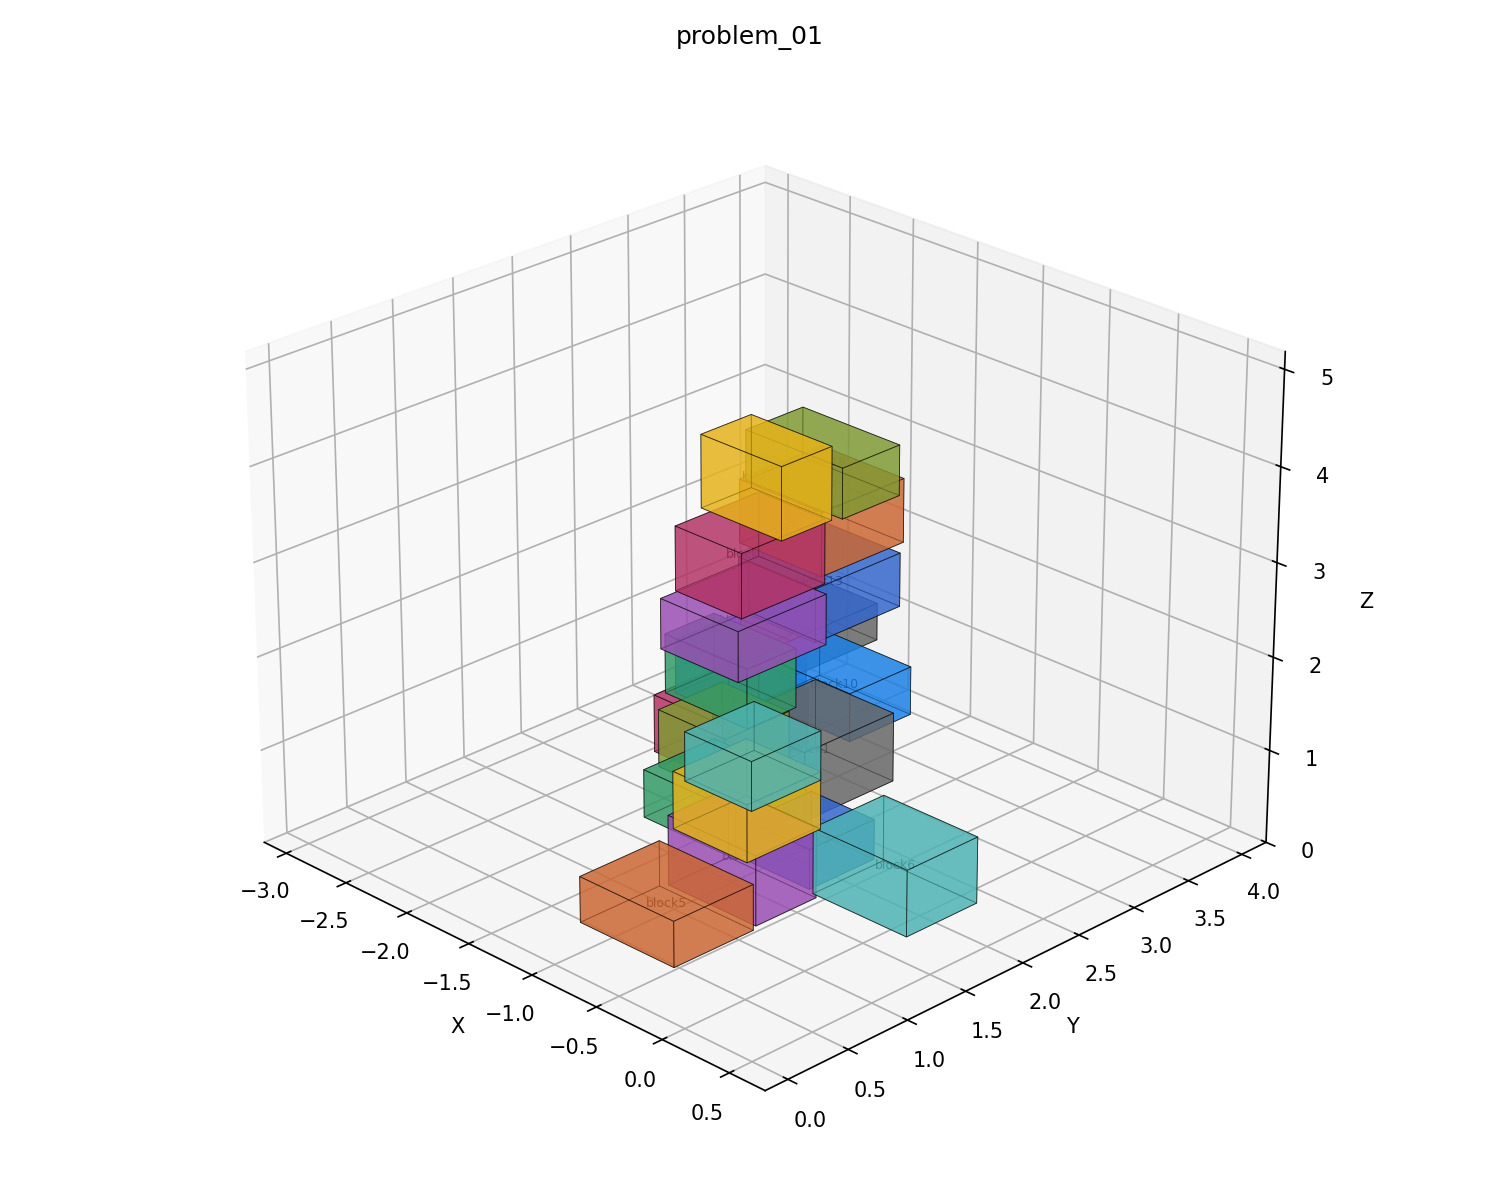
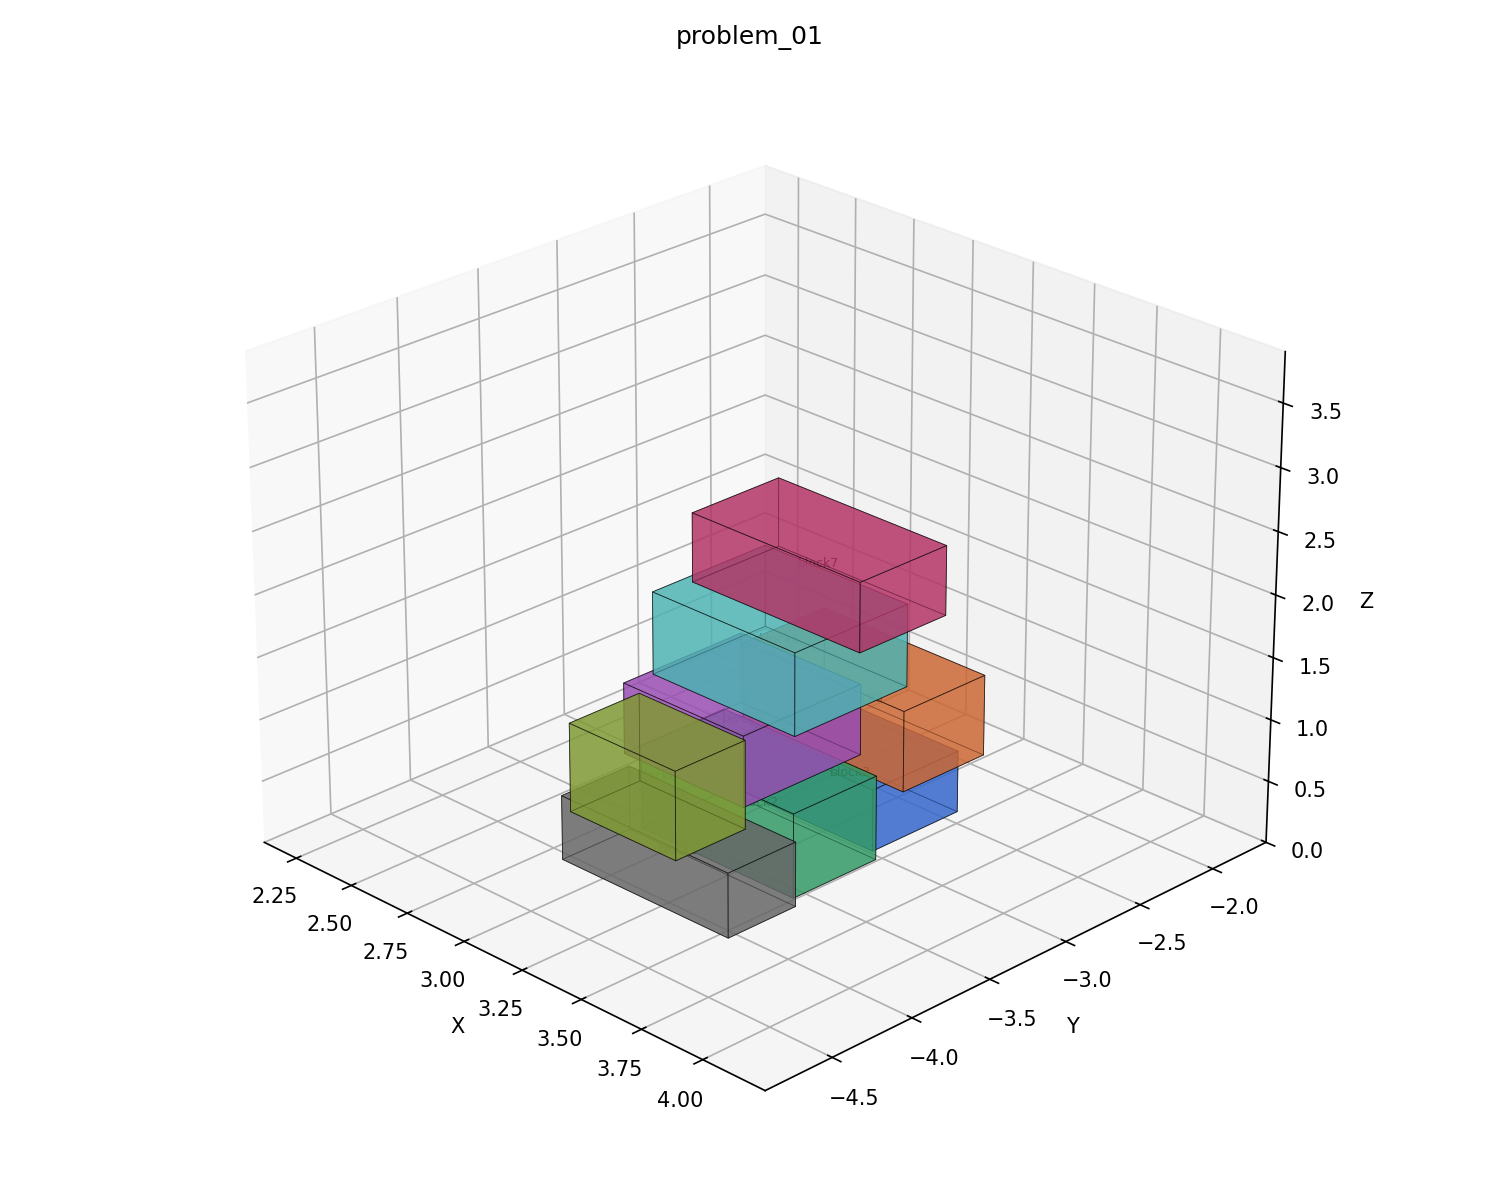
Implement random structure tests.

diff --git a/test_construction_pipeline.py b/test_construction_pipeline.py
@@ -1,7 +1,8 @@
+import yaml
 import os
 import sys
 import time
-from typing import List, cast
+from typing import Dict, List, Optional, cast
 import numpy as np
 import matplotlib.pyplot as plt
 
@@ -88,7 +89,10 @@ def validate_plan_stability(goal_linked_state, world: World) -> List[str]:
         stability_verdict.reverse()  # Reverse to get the correct order
     return stability_verdict
 
-def run_construction_testing_pipeline(problem_name: str = "arch", config_path: str = "configs/problem_configs/"):
+def run_construction_testing_pipeline(problem_name: str = "arch", 
+                                      config_path: str = "configs/problem_configs/",
+                                      init_config: Optional[Dict] = None,
+                                      goal_config: Optional[Dict] = None):
     print(f"==================================================")
     print(f" Running Construction Pipeline Test: [{problem_name}]")
     print(f"==================================================")
@@ -96,16 +100,15 @@ def run_construction_testing_pipeline(problem_name: str = "arch", config_path: s
     # --------------------------------------------------------------------------
     # 1. World Initialization & Goal Parser
     # --------------------------------------------------------------------------
-    print("\n1. Initializing World & Goal configurations...")
-    world = parse_configs_to_world(problem_name, config_path)
-    goal_file = os.path.join(config_path, problem_name, "goal.yaml")
-    init_file = os.path.join(config_path, problem_name, "init.yaml")
-
-    import yaml
-    with open(goal_file, 'r') as f:
-        goal_data = yaml.safe_load(f)
-    with open(init_file, 'r') as f:
-        init_data = yaml.safe_load(f)
+    if not init_config and not goal_config:
+        print("\n1. Initializing World & Goal configurations...")
+        world = parse_configs_to_world(problem_name, config_path)
+        goal_file = os.path.join(config_path, problem_name, "goal.yaml")
+        with open(goal_file, 'r') as f:
+            goal_config = yaml.safe_load(f)
+    else:
+        print("\n1. Initializing World & Goal configurations from provided dictionaries...")
+        world = parse_configs_to_world(init_config, goal_config) # type: ignore
 
     all_objects = world.entities.get_entities(Object)
     all_objects = cast(List[Object], all_objects)
@@ -133,7 +136,7 @@ def run_construction_testing_pipeline(problem_name: str = "arch", config_path: s
     print("\n3. Generating Plan using OrderedLandmarksPlanner...")
 
     # Instantiate and execute the OrderedLandmarksPlanner
-    h = HEURISTIC.STABLE  # Choose the heuristic for planning
+    h = HEURISTIC.AO  # Choose the heuristic for planning
     start_time = time.time()
     planner = OrderedLandmarksPlanner(world, action_dict)
     goal_linked_state = planner.run_stable_planner(support_graph, ground_mesh, h=HEURISTIC.STABLE)
@@ -191,7 +194,7 @@ def run_construction_testing_pipeline(problem_name: str = "arch", config_path: s
 
     # C. Strain Heatmaps & Metrics
     # Full stable does not mean there is a feasible construction plan.
-    metrics_data = compute_construction_metrics(problem_name, config_path, construction_sequence=placement_sequence)
+    metrics_data = compute_construction_metrics(problem_name, world, goal_config, construction_sequence=placement_sequence) #type: ignore
     plot_friction_heatmap(metrics_data, show=False)
     plot_construction_force_and_strain(metrics_data, show=False)
     plt.show()
@@ -216,4 +219,4 @@ def run_construction_testing_pipeline(problem_name: str = "arch", config_path: s
 
 if __name__ == "__main__":
     # Change "arch" to any existing configuration folder name in your system
-    run_construction_testing_pipeline(problem_name="shifted_tower")
+    run_construction_testing_pipeline(problem_name="problem_01")

diff --git a/test_random_structs.py b/test_random_structs.py
@@ -1,0 +1,41 @@
+import argparse
+
+from test_construction_pipeline import run_construction_testing_pipeline, HEURISTIC
+from modular_construction_task_planner.generate_problem import PALETTE, Block, generate_problem, visualise_structure
+
+if __name__ == "__main__":
+    parser = argparse.ArgumentParser(description='Generate random stacking problems')
+    parser.add_argument('--name',      default='problem_01',  help='Problem name (output folder)')
+    parser.add_argument('--blocks',    type=int, default=8,   help='Number of blocks')
+    parser.add_argument('--size',      type=float, default=None,
+                        help='Fixed block size (cube). If omitted, sizes are random.')
+    parser.add_argument('--min-size',  type=float, default=0.4, help='Min block dimension')
+    parser.add_argument('--max-size',  type=float, default=0.8, help='Max block dimension')
+    parser.add_argument('--seed',      type=int,   default=None, help='Random seed')
+    parser.add_argument('--output',    default='.',            help='Output directory')
+    parser.add_argument('--visualise', action='store_true',    help='Show 3D visualisation')
+    args = parser.parse_args()
+
+    init_d, goal_d = generate_problem(
+        problem_name=args.name,
+        n_blocks=args.blocks,
+        block_size=args.size,
+        min_size=args.min_size,
+        max_size=args.max_size,
+        seed=args.seed,
+        output_dir=args.output,
+    )
+    run_construction_testing_pipeline(problem_name="problem_01", init_config=init_d, goal_config=goal_d)
+
+    if args.visualise:
+        # Reconstruct Block objects from goal dict for visualisation
+        vis_blocks = []
+        for bname, bdata in goal_d.items():
+            vis_blocks.append(Block(
+                name=bname,
+                size=tuple(bdata['size']),
+                position=tuple(bdata['position']),
+                orientation=tuple(bdata['orientation']),
+                color=PALETTE[len(vis_blocks) % len(PALETTE)],
+            ))
+        visualise_structure(vis_blocks, title=args.name)

diff --git a/modular_construction_task_planner/ordered_landmarks_planner.py b/modular_construction_task_planner/ordered_landmarks_planner.py
@@ -17,7 +17,7 @@ from modular_construction_task_planner.block_domain import (
 from modular_construction_task_planner.stability import SupportNode, compute_placement_stability
 from modular_construction_task_planner.rbe_solver import compute_stablelego_equilibrium
 
-HEURISTIC = Enum('HEURISTIC', 'LAZY SIMPLE_COLLISION STABLE_DISCRETE STABLE STABLE_NAV FB')
+HEURISTIC = Enum('HEURISTIC', 'LAZY SIMPLE_COLLISION STABLE_DISCRETE STABLE STABLE_NAV FB AO')
 """
     LAZY: Only considers the euclidean distance to the target for the preferred action.
     SIMPLE_COLLISION: Checks for collisions and adds lazy collision cost if applicable. Lazy collision cost is the arc length
@@ -548,6 +548,15 @@ class OrderedLandmarksPlanner:
                                 cost = float('inf')
                             else:
                                 additional_properties['verified'] = True
+
+                    case HEURISTIC.AO:
+                        obj_entity = cast(Object, branch['object'])
+                        is_stable, support_score = self.evaluate_obj_stability(obj_entity, self.support_graph, self.ground_mesh, verbose=verbose)
+                        if verbose:
+                            print(f"Branch for {action_name} object {obj_entity.name} is {'stable' if is_stable else 'unstable'} "
+                                f"with support score {support_score} and start/goal poses: {start_pos}, {target_pos}.")
+
+                        cost = (1 - support_score)
 
                     case HEURISTIC.FB:
                         goal_objects = self.world.at_goal_entities

diff --git a/modular_construction_task_planner/generate_problem.py b/modular_construction_task_planner/generate_problem.py
@@ -342,6 +342,7 @@ def generate_problem(
     seed: Optional[int] = None,
     output_dir: str = '../configs/problem_configs/',
     robot_position: Tuple[float, float, float] = (-15.0, 0.0, 0.0),
+    save: bool = False,
 ) -> Tuple[Dict, Dict]:
     """
         Main entry point. Returns (init_dict, goal_dict) and writes YAML files.
@@ -384,20 +385,21 @@ def generate_problem(
     }
 
     # --- Write files ---
-    problem_dir = os.path.join(output_dir, problem_name)
-    os.makedirs(problem_dir, exist_ok=True)
+    if save:
+        problem_dir = os.path.join(output_dir, problem_name)
+        os.makedirs(problem_dir, exist_ok=True)
 
-    goal_path = os.path.join(problem_dir, 'goal.yaml')
-    init_path = os.path.join(problem_dir, 'init.yaml')
+        goal_path = os.path.join(problem_dir, 'goal.yaml')
+        init_path = os.path.join(problem_dir, 'init.yaml')
 
-    with open(goal_path, 'w') as f:
-        yaml.dump(goal_dict, f, default_flow_style=False, sort_keys=False)
+        with open(goal_path, 'w') as f:
+            yaml.dump(goal_dict, f, default_flow_style=False, sort_keys=False)
 
-    with open(init_path, 'w') as f:
-        yaml.dump(init_dict, f, default_flow_style=False, sort_keys=False)
+        with open(init_path, 'w') as f:
+            yaml.dump(init_dict, f, default_flow_style=False, sort_keys=False)
 
-    print(f"  Written: {goal_path}")
-    print(f"  Written: {init_path}")
+        print(f"  Written: {goal_path}")
+        print(f"  Written: {init_path}")
 
     return init_dict, goal_dict
 

diff --git a/visualize_stability.py b/visualize_stability.py
@@ -137,15 +137,14 @@ def evaluate_obj_stability(world: World, obj: Object, support_graph: Dict[str, S
 
 def compute_construction_metrics(
     problem_name: str,
-    problem_config_path: str = "configs/problem_configs/",
+    world: World,
+    goal_config: Dict[str, Any],
     construction_sequence: Optional[List[str]] = None
 ) -> Dict[str, Any]:
     """
         Executes all physics computations, LP equilibrium checks, CoM evaluations,
         and sequence step strain evaluations in a single pass.
     """
-    world = parse_configs_to_world(problem_name, problem_config_path)
-    goal_config = safe_load(open(f"{problem_config_path}/{problem_name}/goal.yaml", 'r'))
 
     all_objects = cast(List[Object], world.entities.get_entities(Object))
     obj_dict = {obj.name: obj for obj in all_objects}
@@ -448,8 +447,12 @@ SAVE = False
 if __name__ == "__main__":
     problem_name = "shifted_tower"
 
+    # Load the world and goal configuration
+    world = parse_configs_to_world(problem_name, "configs/problem_configs/")
+    goal_config = safe_load(open(f"configs/problem_configs/{problem_name}/goal.yaml", 'r'))
+
     # Compute ALL data once
-    computed_data = compute_construction_metrics(problem_name)
+    computed_data = compute_construction_metrics(problem_name, world, goal_config)
 
     # Plot without re-calculating physics/geometry
     plot_friction_heatmap(computed_data)
